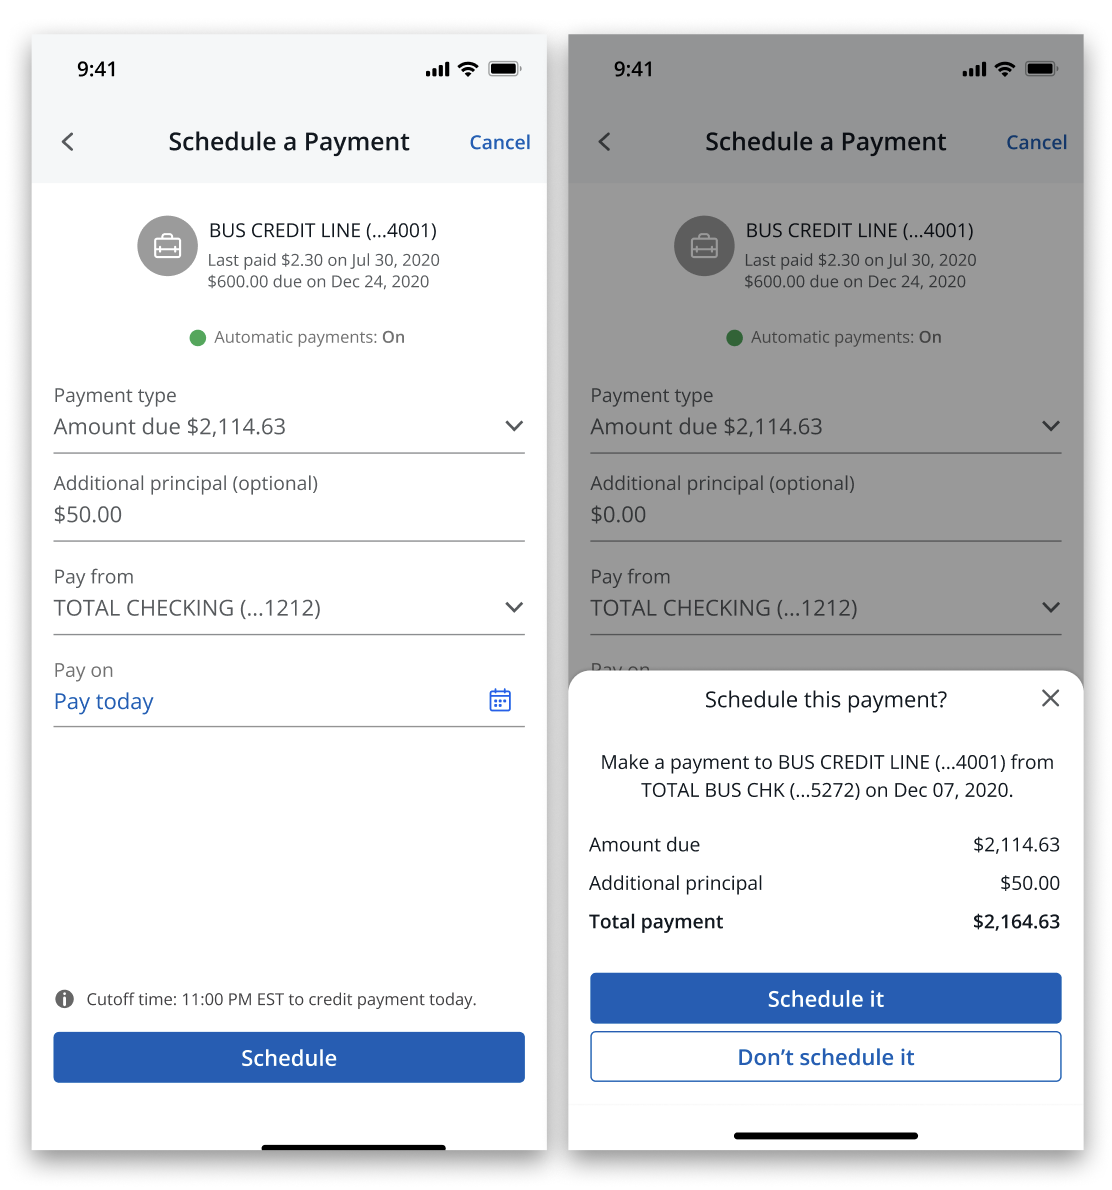
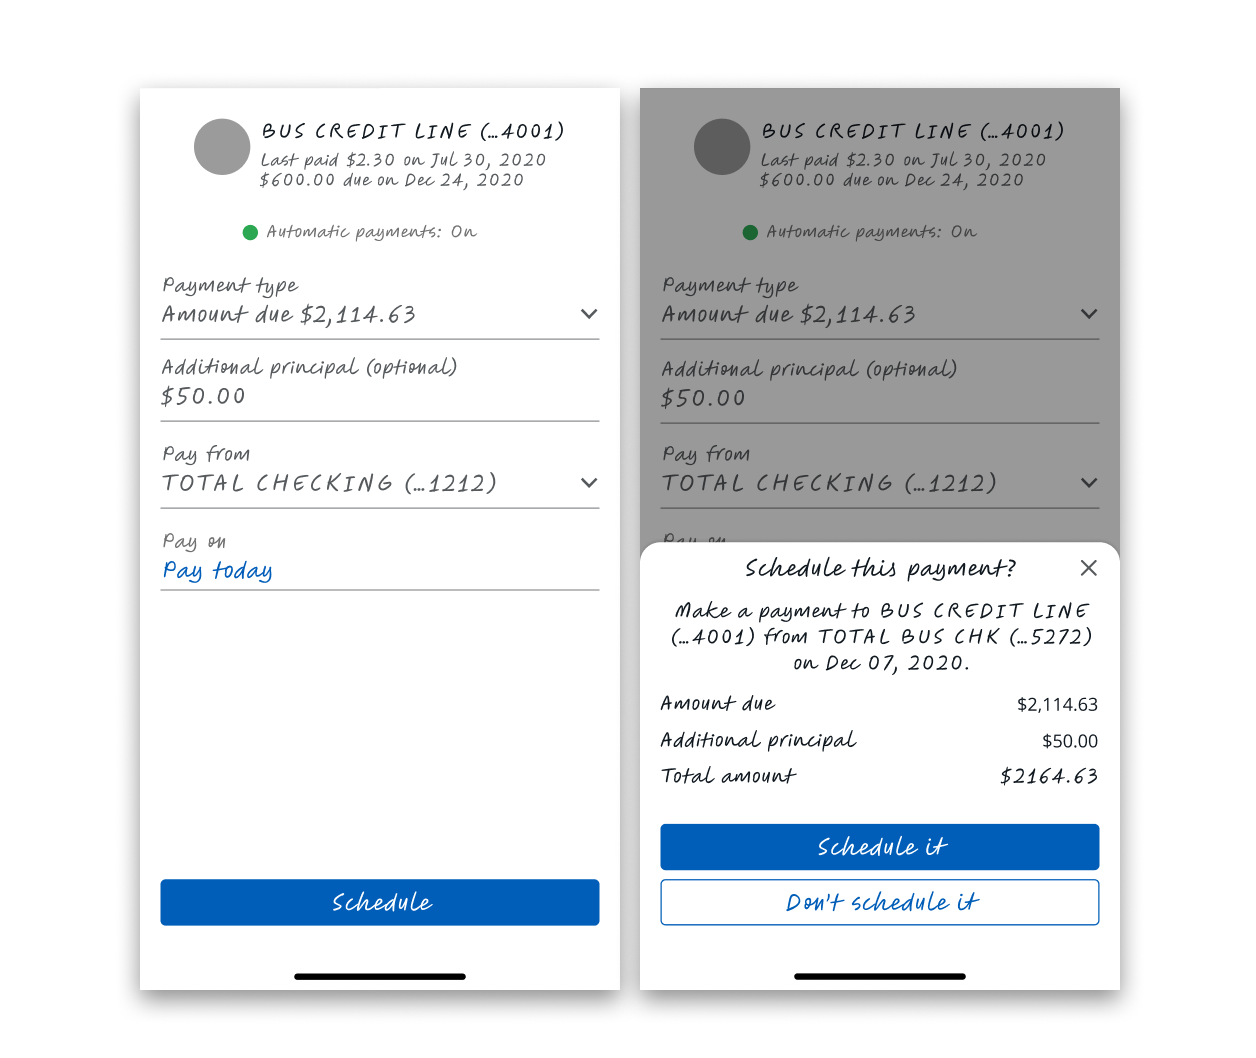
Remove design explorations image

diff --git a/index.html b/index.html
@@ -705,10 +705,6 @@
       </div>
       <h3>Exploring solutions</h3>
       <p>Rather than designing to a single solution, I developed three options at different levels of scope and brought them to product and technology stakeholders with rough t-shirt sizing for engineering effort.</p>
-      <div class="cs-image">
-        <img src="images/exploring-solutions.png" alt="Five design directions laid out in a grid; green outlines indicate options presented to stakeholders">
-        <p class="cs-caption">Five design directions explored; green outlines indicate options presented to stakeholders</p>
-      </div>
       <p>The first was our target state: a consolidated flow that combined the payment summary and pay-from screens into a single screen, and added a payment verification screen for consistency with other Chase payment flows. This was the most ambitious option and carried the largest engineering lift.</p>
       <p>The second was a middle ground: the same screen consolidation, but replacing the verification screen with an updated action sheet that displayed payment totals. Smaller lift, but still a meaningful improvement to the overall flow.</p>
       <div class="cs-image">
